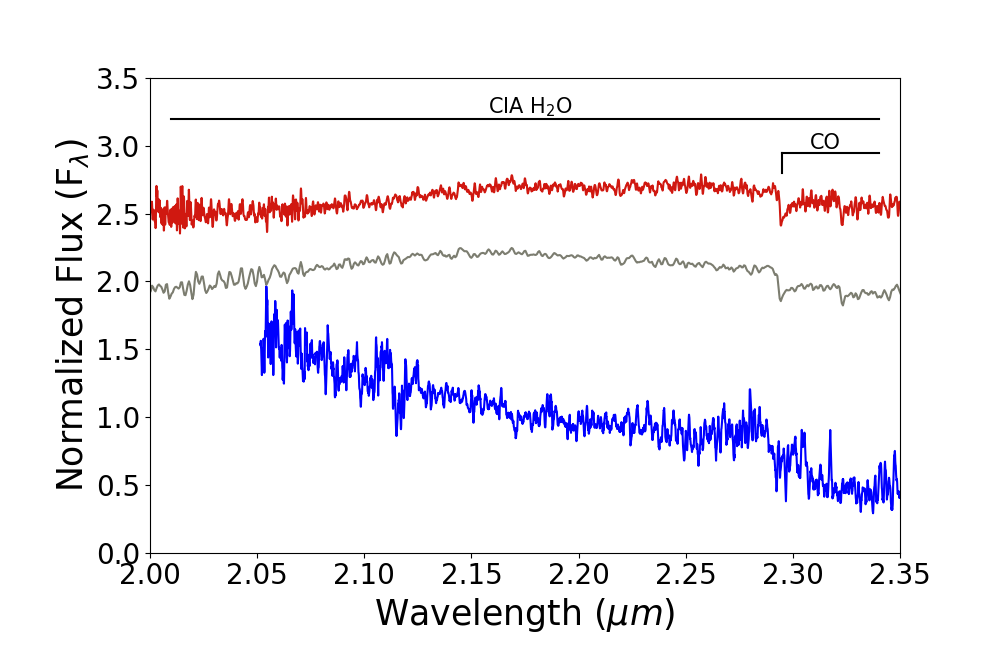
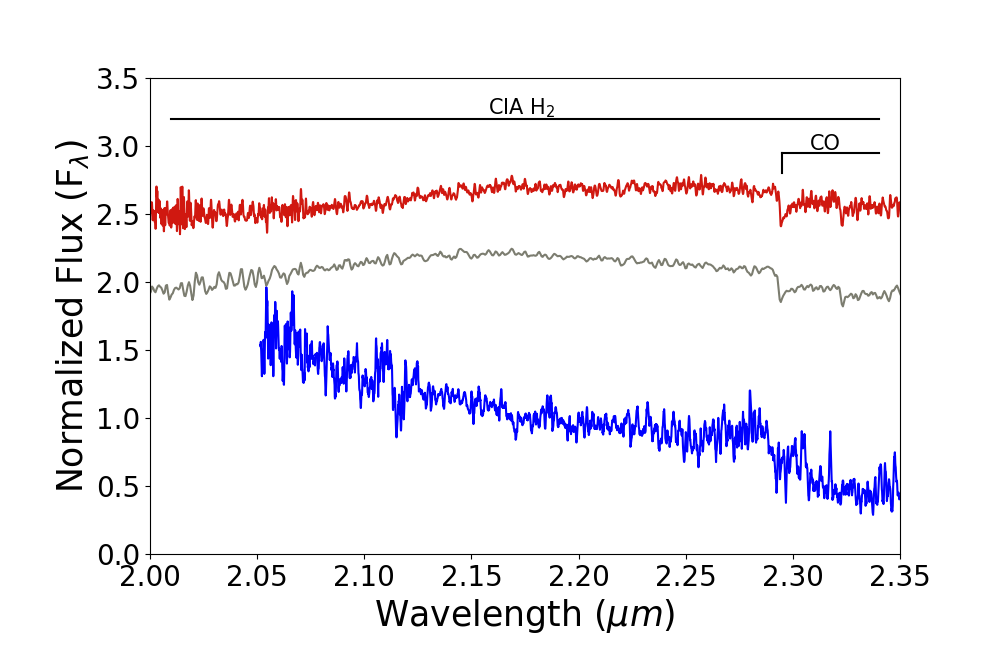
Typo update

diff --git a/KbandTeff.py b/KbandTeff.py
@@ -57,7 +57,7 @@ CIA_H2O = pd.DataFrame()
 CIA_H2O['x'] = [2.01, 2.34]
 CIA_H2O['y'] = [3.2, 3.2]
 plt.plot(CIA_H2O['x'], CIA_H2O['y'], color='k')
-ax1.text(0.45, 0.925, 'CIA H$_\mathrm{2} $O', transform=ax1.transAxes, color='k', fontsize=15)
+ax1.text(0.45, 0.925, 'CIA H$_\mathrm{2} $', transform=ax1.transAxes, color='k', fontsize=15)
 
 CO = pd.DataFrame()
 CO['x'] = [2.295, 2.34]
